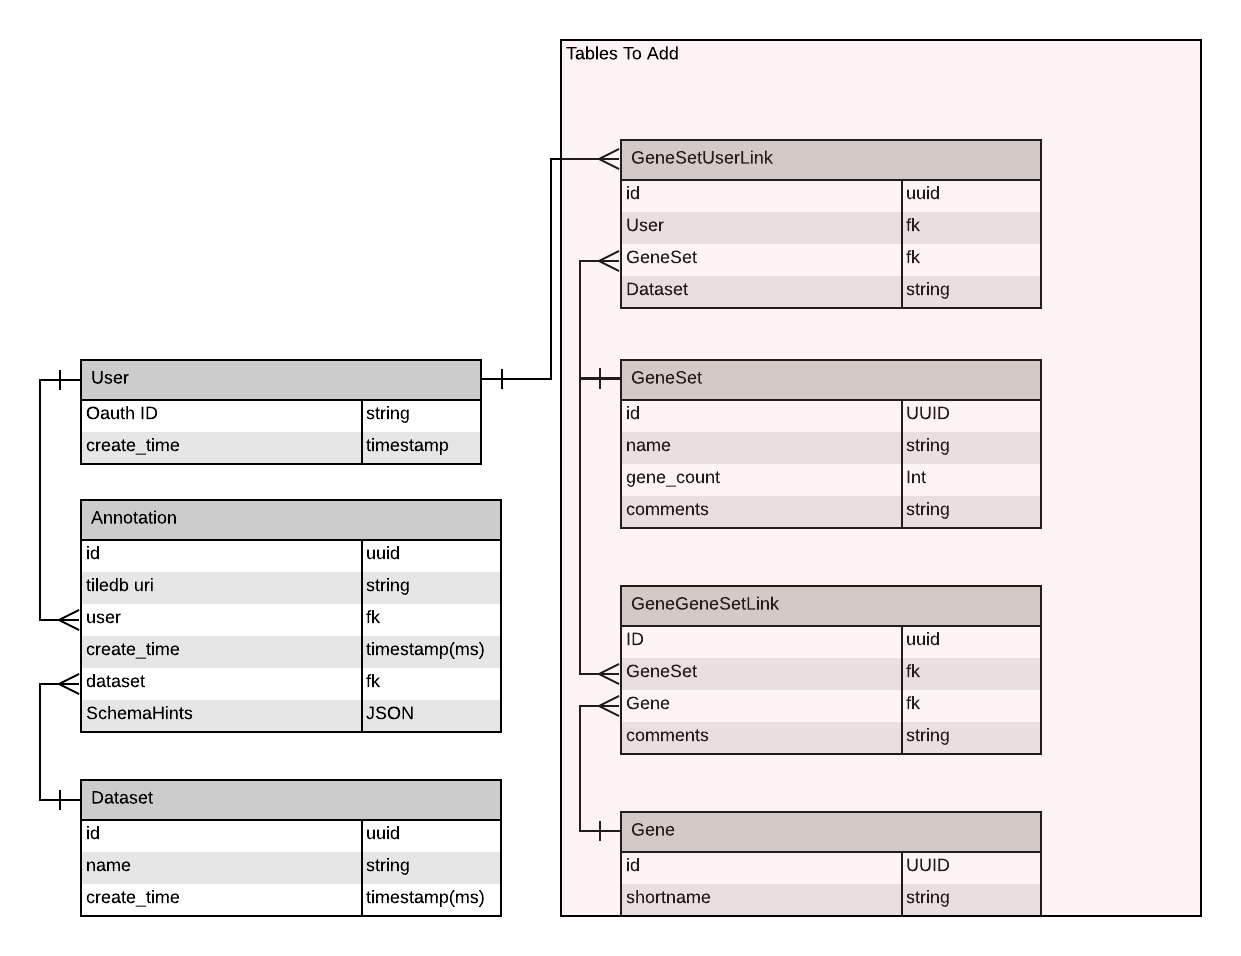
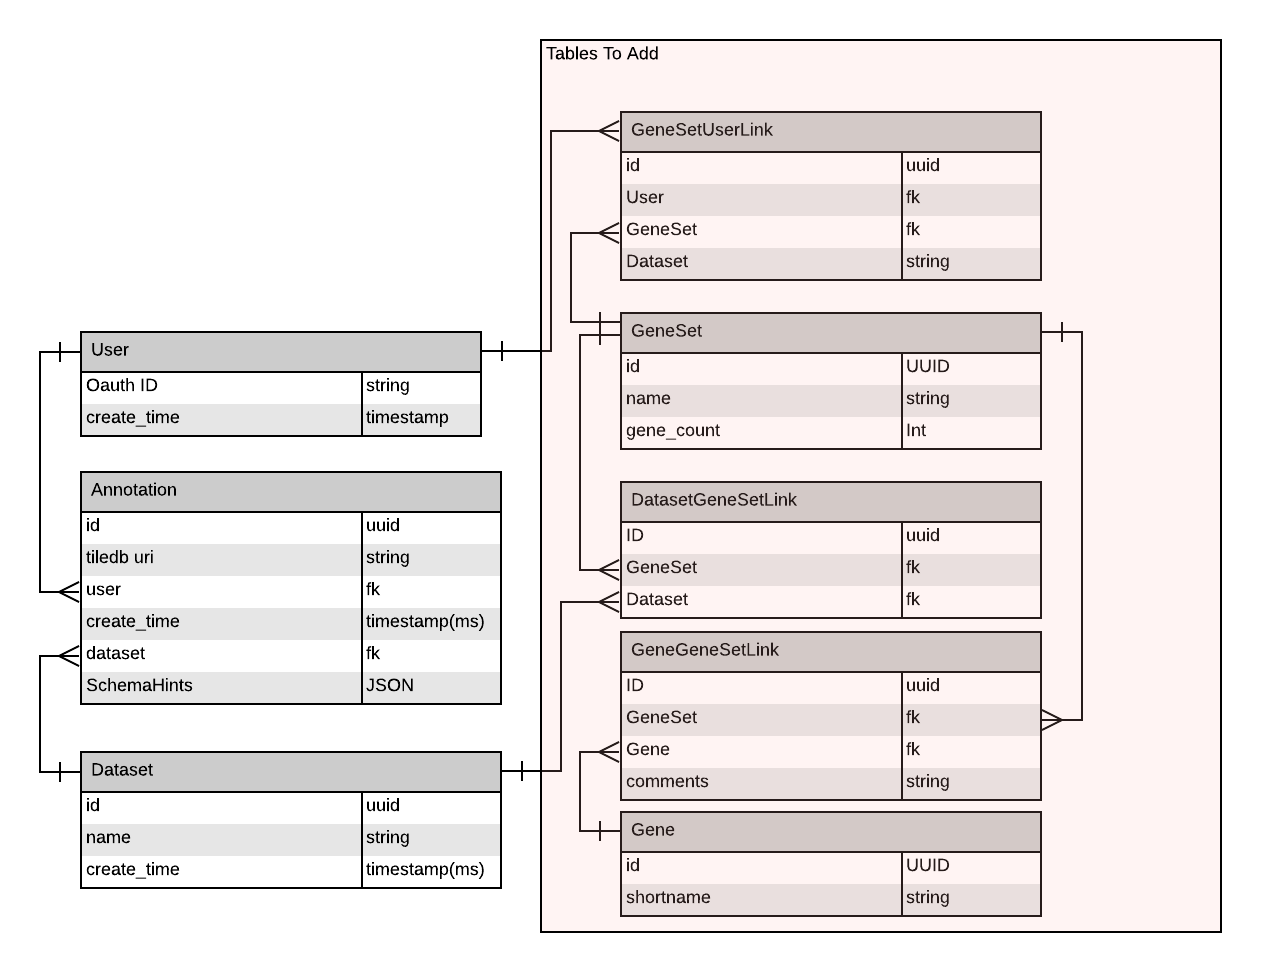
update from discussion

diff --git a/rfcs/XXXX-gene-sets/text.md b/rfcs/XXXX-gene-sets/text.md
@@ -28,7 +28,8 @@ data format for storing references to these genes and any accompanying statistic
 Currently cellxgene users can choose two sets of cells and compute/display the log fold and adjusted p-value of the top ten differentially expressed genes. Additionally we display a histogram of the gene expression levels of the selected cells for each gene in the right side bar. 
 - [US1] A user should be able to export the list of 10 genes along with their logfold and adjusted p-values in a csv file (see data formats below for more detail) by clicking a button
 ### Users should be able to upload their own gene sets and see them in the right side bar with the option to apply them within current cellxgene functionalities, if the same gene ontology was used when generating the current dataset and the geneset uploaded by the user (ie the gene names match) 
-- [US2]  A user should be able to upload a geneset via a csv file (see data formats below for more detail) for a dataset
+- [US2] A user should be able to upload a geneset via a csv file (see data formats below for more detail) for a dataset.
+- [US2.5] A user should be able to upload a geneset they previously downloaded from cellxgene
 - [UC3] When a user uploads a geneset, that list of genes should appear in the right side bar 
 - [US4] If the user was logged in when they uploaded a geneset that genesit should persist if they logout and back in or reload the page
 - [US5] If the gene names match those used in the dataset the user should be able to use general cellxgene functionality (color by genes, calculate differential expression levels, etc.) on those genes
@@ -47,7 +48,7 @@ Currently cellxgene users can choose two sets of cells and compute/display the l
 
 Fully supporting persistence of differential expression results is out of the scope of this RFC. But the data model described below has been designed to allow for differential expression persistence in the future.
 ###Relational Database
-To support gene sets four tables will be added to the cellxgene relational database
+To support gene sets five tables will be added to the cellxgene relational database
 - Gene
    - UUID (generated)
    - GeneName
@@ -61,41 +62,39 @@ To support gene sets four tables will be added to the cellxgene relational datab
    - UUID (generated)
    - GeneSet Name (required)
    - Gene Count (generated)
-   - Comments (optional, only available when the gene set is generated by cellxgene)
 - GeneSetUserLink
    - User UUID
    - GeneSet UUID
    - Comments (optional)
-   - Dataset UUID (?)
+   - Dataset UUID?
+-GeneSetDatasetLink
+   - UUID (generated)
+   - GeneSet UUID
+   - Dataset UUID
 
+Note - GeneSets will only be linked to datasets when they were uploaded with that dataset
 ![Cellxgene Data Schema](imgs/Cellxgene_rds_schema.png)
 **Figure 1** Cellxgene data schema, tables to be added (as described above) are in red
 #### Imported CSV
 GeneSet CSV
-- A file containing a comma separated list of the gene set name, genes and (optionally) details about why they were included. Each gene should be on a new line.
+- A file containing a comma separated list of the gene set name, genes, pvalue, logfold value, 
+identifers for the cellsets that were compared to produce those values and details about why they were included. 
+Each gene should be on a new line. Only gene set (name) and gene are required fields. The name of the file will be based on the 
+user name and a timestamp rounded to the nearest second. If cells from two different datasets are being compared the datasest name 
+should be appended to the cellset label (eg dataset1.categoryA.label1)
 ```
-GENESET,GENE,COMMENTS
-SET1, a23,I picked this gene because I think it causes cancer
-SET1, b46,I picked this gene because I think it prevents cancer
-SET2, c19,I picked this gene because it has a funny name
-SET2, d57,
-```
-#### Exported CSV
-Exported File
--  A file containing a comma separated list of genes, logfold values and p-values. The name of the directory storing the file will reference the dataset and the name of the file will contain names of the cell sets being compared, see datasetID/categoryA.label1-categoryB.label2.csv for an examole
-In the future, if cells from two different datasets are being compared the dataset id will be appended as a prefix to the category names in the filename (?will this make the filename too long?)
-```
-GENE,PVALUE,LOGFOLD
-a23,0.03,3
-b46,0.02,2
-c19,0.05,1
+GENESET,GENE,PVALUE,LOGFOLD,CELLSET1_CATEGORY.LABEL,CELLSET2_CATEGORY.LABEL,COMMENTS
+SET1, a23, .05, 2, tissue.lung, tissue.heart, I picked this gene because I think it causes cancer
+SET1, b46, .01, 4, tissue.lung, tissue.heart, I picked this gene because I think it prevents cancer
+SET1, c19, .35, 2, tissue.lung, tissue.heart, I picked this gene because it has a funny name
+SET2, d57, .09, 3, cluster.1, cluster.2,
+SET2, d48, .04, 4, cluster.1, cluster.2 
+SET2, d89, .06, 5, cluster.1, cluster.2 
 ```
 
 ## [Optional] Alternatives
 
-One simplifying alternative is to have the format of the exported and the imported csvs match. 
-However this doesnt match described use cases or user behavior. Logfold and P-values were left out of the imported csv 
-because those statistics are only meaningful when they are alongside information on what cell sets are being compared. We 
-expect many of our user's gene sets to come from external papers without the accompanying data that would make those numbers useful. 
+Because of the redundancy of the some pieces of data in the csv (geneset name, cellset identifiers) we considered using a json format instead,
+however discussions with scientists (our main users) made it clear that they felt more comfortable editing and working with a csv file.
 
 ## References
